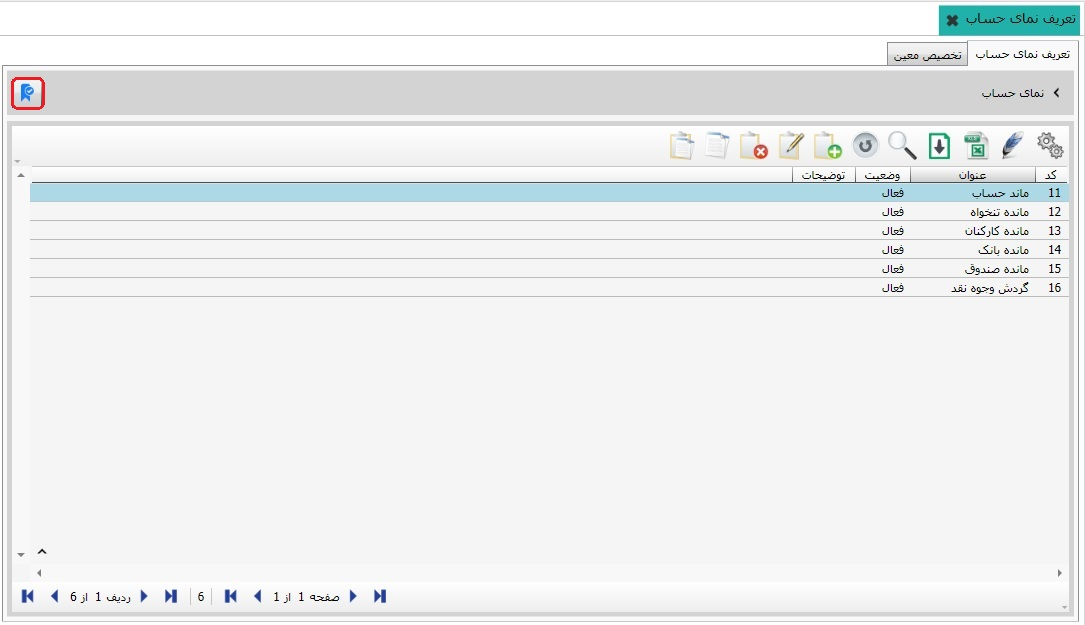
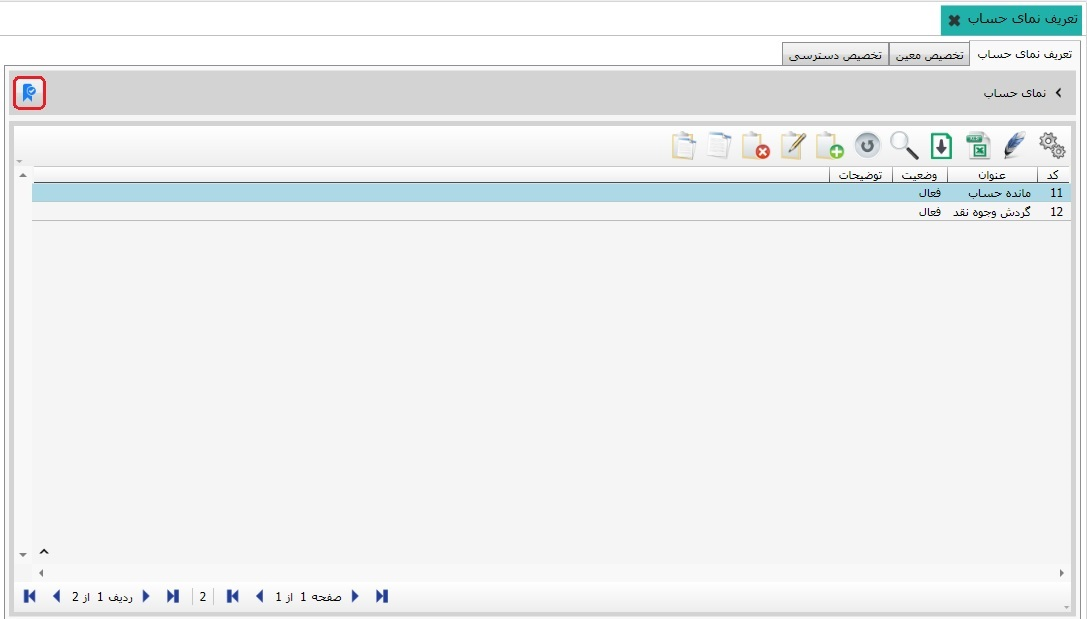
نمای حساب

Changed region(s): [[0.0, 0.0614, 1.0, 1.0]]

diff --git a/Help/fa-IR/_03_مالی و حسابداری/_03_تعریف نمای حساب/Index.html b/Help/fa-IR/_03_مالی و حسابداری/_03_تعریف نمای حساب/Index.html
@@ -17,7 +17,7 @@
 		معین، گزارش مورد نظر خود را دریافت کنید. از جمله بخش هایی
 		که در آنها فیلتر نما اعمال می شود می توان به مرور و مشاهده ی حسابها،
 		مرور و مشاهده ی حساب اشخاص، تهیه و چاپ سند خلاصه و ... اشاره کرد.
-		صفحه ی نمای حساب دارای دو تب «نمای حساب» و «تخصیص معین» می باشد
+		صفحه ی نمای حساب دارای سه تب «نمای حساب» و «تخصیص معین» و می باشد
 		که با انتخاب هر یک صفحه مربوط به آن ظاهر می شود:
 	</p>
 	<h2> نمای حساب </h2>
@@ -41,6 +41,12 @@
 		حساب را براساس معین های این نما به شما نشان می دهد.
 	</p>
 	<img class="FitPic" src="l2.jpg" />
+	<h2> تخصیص دسترسی </h2>
+	<p>
+		در تب تخصیص دسترسی شما می توانید نمای حساب را به کاربر مورد نظر خود تخصیص دهید.
+
+	</p>
+	<img class="FitPic" src="l3.jpg" />
 
 </body>
 

diff --git a/Help/fa-IR/_04_خزانه داری/_10_صدور و ویرایش سند خزانه/Index.html b/Help/fa-IR/_04_خزانه داری/_10_صدور و ویرایش سند خزانه/Index.html
@@ -252,6 +252,18 @@
 		<b>ارسال به دستگاه پز :</b>
 		با کلیک بر روی این آیکن مبلغ فاکتور به دستگاه پز ارسال می شود.
 	</p>
+	<p>
+		<img class="Icon" src="i37.jpg" />
+		<b>راس گیری :</b>
+		با کلیک بر روی این کلید سیستم به صورت خودکار 
+		راس چکهای ثبت شده را به شما نمایش می دهد.
+
+
+
+
+
+
+
 
 	</div>
 </body>
